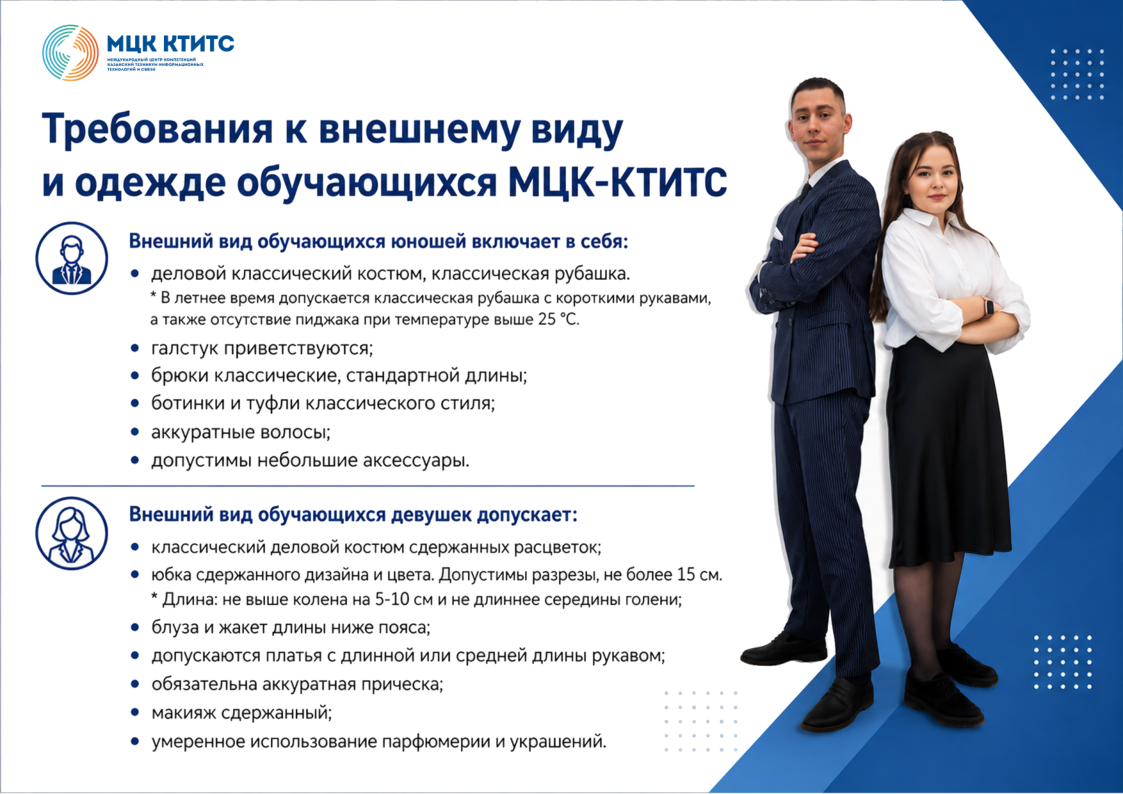
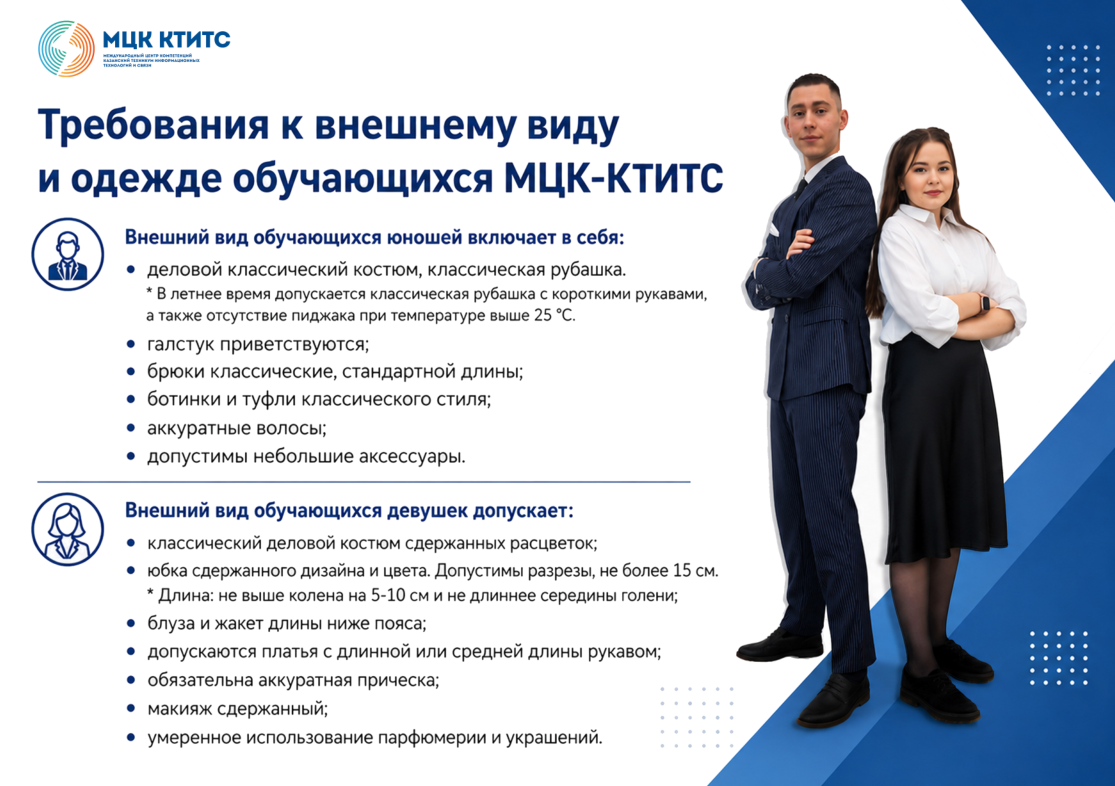
fix: local dev https, mobile адаптив и виджет Rubitime
- HTTPS форсится только в production (AppServiceProvider, ForceHttps middleware) —
  иначе на локальном http-сервере не грузились стили/скрипты
- dress-code.png: обрезаны поля, чтобы убрать «съедание» углов; стили картинки
- быстрые ссылки: более плавный hover
- адаптив блока «Порядок действий»: даты-плашки переносятся, шаги показывают
  «Этап N» сверху над карточкой (карточка во всю ширину)
- Rubitime: рабочий авто-ресайз iframe + возвращена прокрутка (noscroll убран),
  чтобы поля формы не обрезались под блоком-заметкой

diff --git a/public/css/style.css b/public/css/style.css
@@ -324,13 +324,19 @@ body {
     line-height: 1.3;
     color: white;
     box-shadow: 0 8px 24px rgba(0, 0, 0, 0.06);
+    transition: transform 0.4s cubic-bezier(0.22, 1, 0.36, 1),
+                box-shadow 0.4s cubic-bezier(0.22, 1, 0.36, 1),
+                background-color 0.3s ease,
+                color 0.3s ease;
+    will-change: transform;
 }
 
 .quick-link-card:hover,
 .quick-link-card:focus-visible {
     background: white;
     color: var(--accent-color);
-    transform: translateY(-2px);
+    transform: translateY(-6px);
+    box-shadow: 0 18px 36px rgba(0, 80, 152, 0.2);
 }
 
 .quick-link-card__icon {
@@ -342,6 +348,12 @@ body {
     height: 40px;
     border-radius: 50%;
     background: white;
+    transition: transform 0.4s cubic-bezier(0.22, 1, 0.36, 1);
+}
+
+.quick-link-card:hover .quick-link-card__icon,
+.quick-link-card:focus-visible .quick-link-card__icon {
+    transform: translateX(4px);
 }
 
 .quick-link-card__icon img {
@@ -1072,33 +1084,55 @@ body {
 
     .admission-notice__dates li {
         width: 100%;
+        flex-direction: column;
+        align-items: flex-start;
+        gap: 8px;
         font-size: 13.5px;
     }
 
+    .admission-notice__dates li > span:not(.admission-notice__tag) {
+        min-width: 0;
+        overflow-wrap: anywhere;
+    }
+
+    /* На мобильных убираем вертикальную дорожку слева:
+       номер этапа показываем плашкой «Этап N» над карточкой,
+       а сама карточка занимает всю ширину. */
     .admission-flow::before {
-        left: 25px;
+        display: none;
     }
 
     .admission-flow__item {
-        grid-template-columns: 52px minmax(0, 1fr);
-        gap: 16px;
-        padding: 14px 0;
+        display: block;
+        padding: 10px 0;
     }
 
     .admission-flow__marker {
-        width: 52px;
-        height: 52px;
-    }
-
-    .admission-flow__num {
-        width: 44px;
-        height: 44px;
-        border-radius: 14px;
-        font-size: 18px;
+        width: 100%;
+        height: auto;
+        justify-content: flex-start;
+        margin-bottom: 10px;
     }
 
     .admission-flow__ring {
-        border-radius: 18px;
+        display: none;
+    }
+
+    .admission-flow__num {
+        width: auto;
+        height: auto;
+        padding: 6px 14px;
+        border-radius: 999px;
+        font-size: 12.5px;
+        font-weight: 800;
+        letter-spacing: 0.06em;
+        text-transform: uppercase;
+        transform: none;
+        box-shadow: 0 8px 18px rgba(3, 68, 194, 0.28);
+    }
+
+    .admission-flow__num::before {
+        content: "Этап\00A0";
     }
 
     .admission-flow__card {
@@ -4043,6 +4077,8 @@ body {
     max-width: 1200px;
     margin: 0 auto;
     border-radius: 22px;
+    border: 1px solid #e6e9ef;
+    box-shadow: 0 18px 40px rgba(3, 68, 194, 0.12);
 }
 
 @media (max-width: 768px) {

diff --git a/resources/views/pages/main.blade.php b/resources/views/pages/main.blade.php
@@ -165,8 +165,23 @@
                                     Запись — на одно заявление; сопровождающих учитывать не нужно. При желании
                                     можно прийти в порядке живой очереди.
                                 </p>
-				<iframe src="https://rubitime.ru/api/get-project/ea4e5c3178914c2818a0be78171f156d9411bc0ef69958c220792549e87a98fa?rvtype=iframe&amp;noscroll=1" id="rubitime-project__iframe-static" style="width: 100%; height: 660px; border: 0px;"></iframe>
-<script>(function() {if (typeof(rubitimeIframeIsLoaded) != "boolean") { var rpis = document.getElementsByClassName("rubitime-project-iframe")[0];var rpisi = document.createElement("iframe");rpisi.src = rpis.getAttribute("href");rpisi.src = rpisi.src.indexOf("?") >= 0 ? rpisi.src+"&rvtype=iframe&noscroll=1" : rpisi.src+"?rvtype=iframe&noscroll=1";rpisi.style.width="100%";rpisi.style.height="660px";rpisi.style.border="0";rpisi.id = 'rubitime-project__iframe-static';rpis.parentNode.replaceChild(rpisi, rpis); var rubiEventMethod=window.addEventListener?"addEventListener":"attachEvent",rubiEventer=window[rubiEventMethod],rubiMessageEvent="attachEvent"==rubiEventMethod?"onmessage":"message";rubiEventer(rubiMessageEvent,function(e){if(e.data!=undefined && typeof(e.data)=="string" -1!=e.data.indexOf("height")){var t=JSON.parse(e.data);if(0!=t.height&&"static"==t.type){var i=document.getElementById("rubitime-project__iframe-static");i&&(i.style.height=Math.round(t.height)+20+"px")} if (t.type == "loadpage" && t.scroll == "yes" && (document.getElementById("rubitime-project-shadow") == null || document.getElementById("rubitime-project-shadow").style.display == "none")) {if (typeof(jQuery) != "undefined") {jQuery("html, body").animate({ scrollTop: $("#rubitime-project__iframe-static").offset().top});} else {document.getElementById("rubitime-project__iframe-static").scrollIntoView()}} }},!1);} var rubitimeEls = document.getElementsByClassName("rubitime-project-iframe"); var ri = 0; while(rubitimeEls.length > ri){rubitimeEls[ri].style.display = "none"; ri++;} })(); var rubitimeIframeIsLoaded = true;</script>
+				<iframe src="https://rubitime.ru/api/get-project/ea4e5c3178914c2818a0be78171f156d9411bc0ef69958c220792549e87a98fa?rvtype=iframe" id="rubitime-project__iframe-static" style="width: 100%; height: 660px; min-height: 660px; border: 0px;"></iframe>
+<script>
+                                    /* Авто-ресайз iframe Rubitime: слушаем сообщения о высоте
+                                       и подгоняем высоту, чтобы поля формы (появляются после
+                                       выбора даты) не обрезались под блоком ниже. */
+                                    (function () {
+                                        var IFRAME_ID = 'rubitime-project__iframe-static';
+                                        window.addEventListener('message', function (e) {
+                                            if (typeof e.data !== 'string' || e.data.indexOf('height') === -1) return;
+                                            var data;
+                                            try { data = JSON.parse(e.data); } catch (err) { return; }
+                                            if (!data || data.type !== 'static' || !data.height) return;
+                                            var iframe = document.getElementById(IFRAME_ID);
+                                            if (iframe) iframe.style.height = (Math.round(data.height) + 20) + 'px';
+                                        }, false);
+                                    })();
+                                </script>
                                 <aside class="admission-flow__note">
                                     Заполните личный кабинет дома, в спокойной обстановке — это повысит точность
                                     данных и ускорит визит.

diff --git a/app/Http/Middleware/ForceHttps.php b/app/Http/Middleware/ForceHttps.php
@@ -10,8 +10,10 @@ class ForceHttps
 {
     public function handle(Request $request, Closure $next): Response
     {
-        $request->server->set('HTTPS', 'on');
-        $request->server->set('SERVER_PORT', 443);
+        if (app()->environment('production')) {
+            $request->server->set('HTTPS', 'on');
+            $request->server->set('SERVER_PORT', 443);
+        }
         return $next($request);
     }
 }

diff --git a/app/Providers/AppServiceProvider.php b/app/Providers/AppServiceProvider.php
@@ -20,6 +20,8 @@ class AppServiceProvider extends ServiceProvider
      */
     public function boot(): void
     {
-        URL::forceScheme('https');
+        if ($this->app->environment('production')) {
+            URL::forceScheme('https');
+        }
     }
 }
